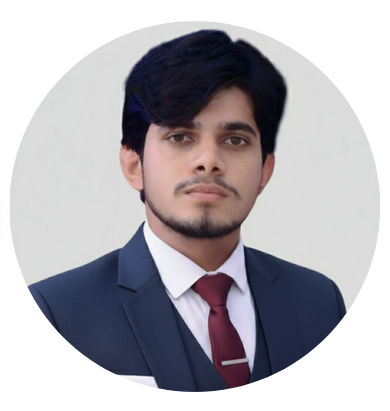
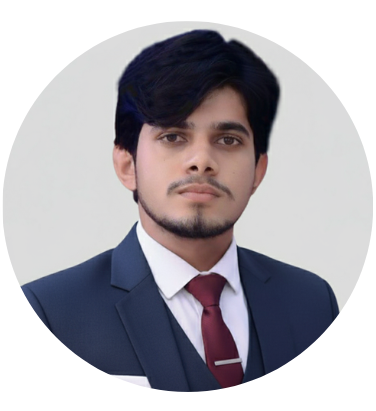
Add/update project files

diff --git a/src/components/Sections/Testimonials.jsx b/src/components/Sections/Testimonials.jsx
@@ -5,26 +5,43 @@ import Testimonial from "../Items/Testimonial";
 const testimonialsData = [
   {
     id: 1,
-    content: "It was great work which he had done, creative, fast, and quality — Thank you!.",
-    authorImage: "images/customer-1.png",
-    authorName: "Nasser",
-    authorStatus: "UAE",
+    content: "Working with Habib has been great. I will be using him again in the future. He is very professional, has great attention to detail, and delivers projects on time.",
+    authorImage: "images/tanya.png",
+    authorName: "Tanya Buckley",
+    authorStatus: "United States",
   },
+
   {
     id: 2,
-    content:
-      "Great Job by Habib Ullah all the times, I have placed many orders",
-    authorImage: "images/customer-2.png",
-    authorName: "lubaland",
-    authorStatus: "Canada",
+    content: "Great work! The results were creative, fast, and of excellent quality. I’m really happy with how everything turned out and would highly recommend!",
+    authorImage: "images/customer-1.png",
+    authorName: "Nasser Al-Dhaheri",
+    authorStatus: "United Arab Emirates",
   },
+
   {
     id: 3,
     content:
+      "Good job by Habib Ullah every time! I’ve placed many orders and he always delivers quality work on time. Very satisfied and will work again with him!",
+    authorImage: "images/customer-2.png",
+    authorName: "Nana lubaland",
+    authorStatus: "Canada",
+  },
+  {
+    id: 4,
+    content:
       "Habib delivers ahead of time. This is another proof of his profissionalism.",
     authorImage: "images/customer-3.png",
-    authorName: "Anas",
+    authorName: "Anas Bin Salman",
     authorStatus: "Saudi Arabia",
+  },
+  {
+    id: 5,
+    content:
+      "The final delivery was awesome, too much satisfied. Thank you!",
+    authorImage: "images/customer-5.png",
+    authorName: "James_Cook",
+    authorStatus: "United States",
   },
 ];
 
@@ -34,7 +51,7 @@ function Testimonials() {
     arrows: false,
     infinite: true,
     speed: 500,
-    slidesToShow: 2,
+    slidesToShow: 1,
     slidesToScroll: 1,
   };
 

diff --git a/src/components/Sections/About.jsx b/src/components/Sections/About.jsx
@@ -39,22 +39,26 @@ function About() {
             </p>
           </div>
         </div>
-        <div className="d-flex flex-wrap flex-md-nowrap">
-          <a href={aboutData.cvpath} className="btn btn-default me-2">
-            <i className="icon-cloud-download"></i>Download CV
-          </a>
-          <ScrollLink
-            activeClass="active"
-            to="section-contact"
-            spy={true}
-            smooth={true}
-            duration={500}
-            offset={50}
-            className="btn btn-alt"
-          >
-            <i className="icon-envelope"></i>Hire me
-          </ScrollLink>
-        </div>
+       <div className="d-flex flex-wrap flex-md-nowrap">
+  <a
+    href={aboutData.cvpath}
+    className="btn btn-default me-2 mb-2 mb-md-0"
+  >
+    <i className="icon-cloud-download"></i> Download CV
+  </a>
+  <ScrollLink
+    activeClass="active"
+    to="section-contact"
+    spy={true}
+    smooth={true}
+    duration={500}
+    offset={50}
+    className="btn btn-alt"
+  >
+    <i className="icon-envelope"></i> Hire me
+  </ScrollLink>
+</div>
+
       </div>
     </div>
   );

diff --git a/src/components/Sections/Portfolios.jsx b/src/components/Sections/Portfolios.jsx
@@ -3,10 +3,10 @@ import Portfolio from "../Items/Portfolio";
 
 const filters = [
   { id: 1, name: "All Projects" },
-  { id: 2, name: "HTML/CSS" },
-  { id: 3, name: "React" },
-  { id: 4, name: "Node.js" },
-  { id: 5, name: "WP/Wix" },
+  // { id: 2, name: "HTML/CSS" },
+  // { id: 3, name: "React" },
+  // { id: 4, name: "Node.js" },
+  // { id: 5, name: "WP/Wix" },
 ];
 
 const allData = [
@@ -154,7 +154,7 @@ function Portfolios() {
       </ul>
 
       {/* MOBILE FILTER DROPDOWN */}
-      <div className="pf-filter-wrapper mb-4">
+      {/* <div className="pf-filter-wrapper mb-4">
         <select
           className="portfolio-filter-mobile"
           onChange={(e) => handleChange(e)}
@@ -165,7 +165,7 @@ function Portfolios() {
             </option>
           ))}
         </select>
-      </div>
+      </div> */}
 
       {/* PORTFOLIO GRID */}
       <div className="row portfolio-wrapper">

diff --git a/src/components/Sections/Herosection.jsx b/src/components/Sections/Herosection.jsx
@@ -4,7 +4,7 @@ import { Link as ScrollLink } from "react-scroll";
 const herosectionData = {
   name: "Habib",
   aboutMe:
-    "Full-Stack Developer — building fast, scalable, and user-friendly web apps with React, Node.js, and modern JavaScript technologies.",
+    "Full-Stack Developer building fast, scalable, and user-friendly web apps using React, Node.js, and modern JavaScript technologies.",
 };
 
 function Herosection() {

diff --git a/src/sass/main.scss b/src/sass/main.scss
@@ -441,6 +441,7 @@ section {
   }
 }
 
+
 .testimonial-item {
   border: solid 1px #efefef;
   border-radius: 10px;
